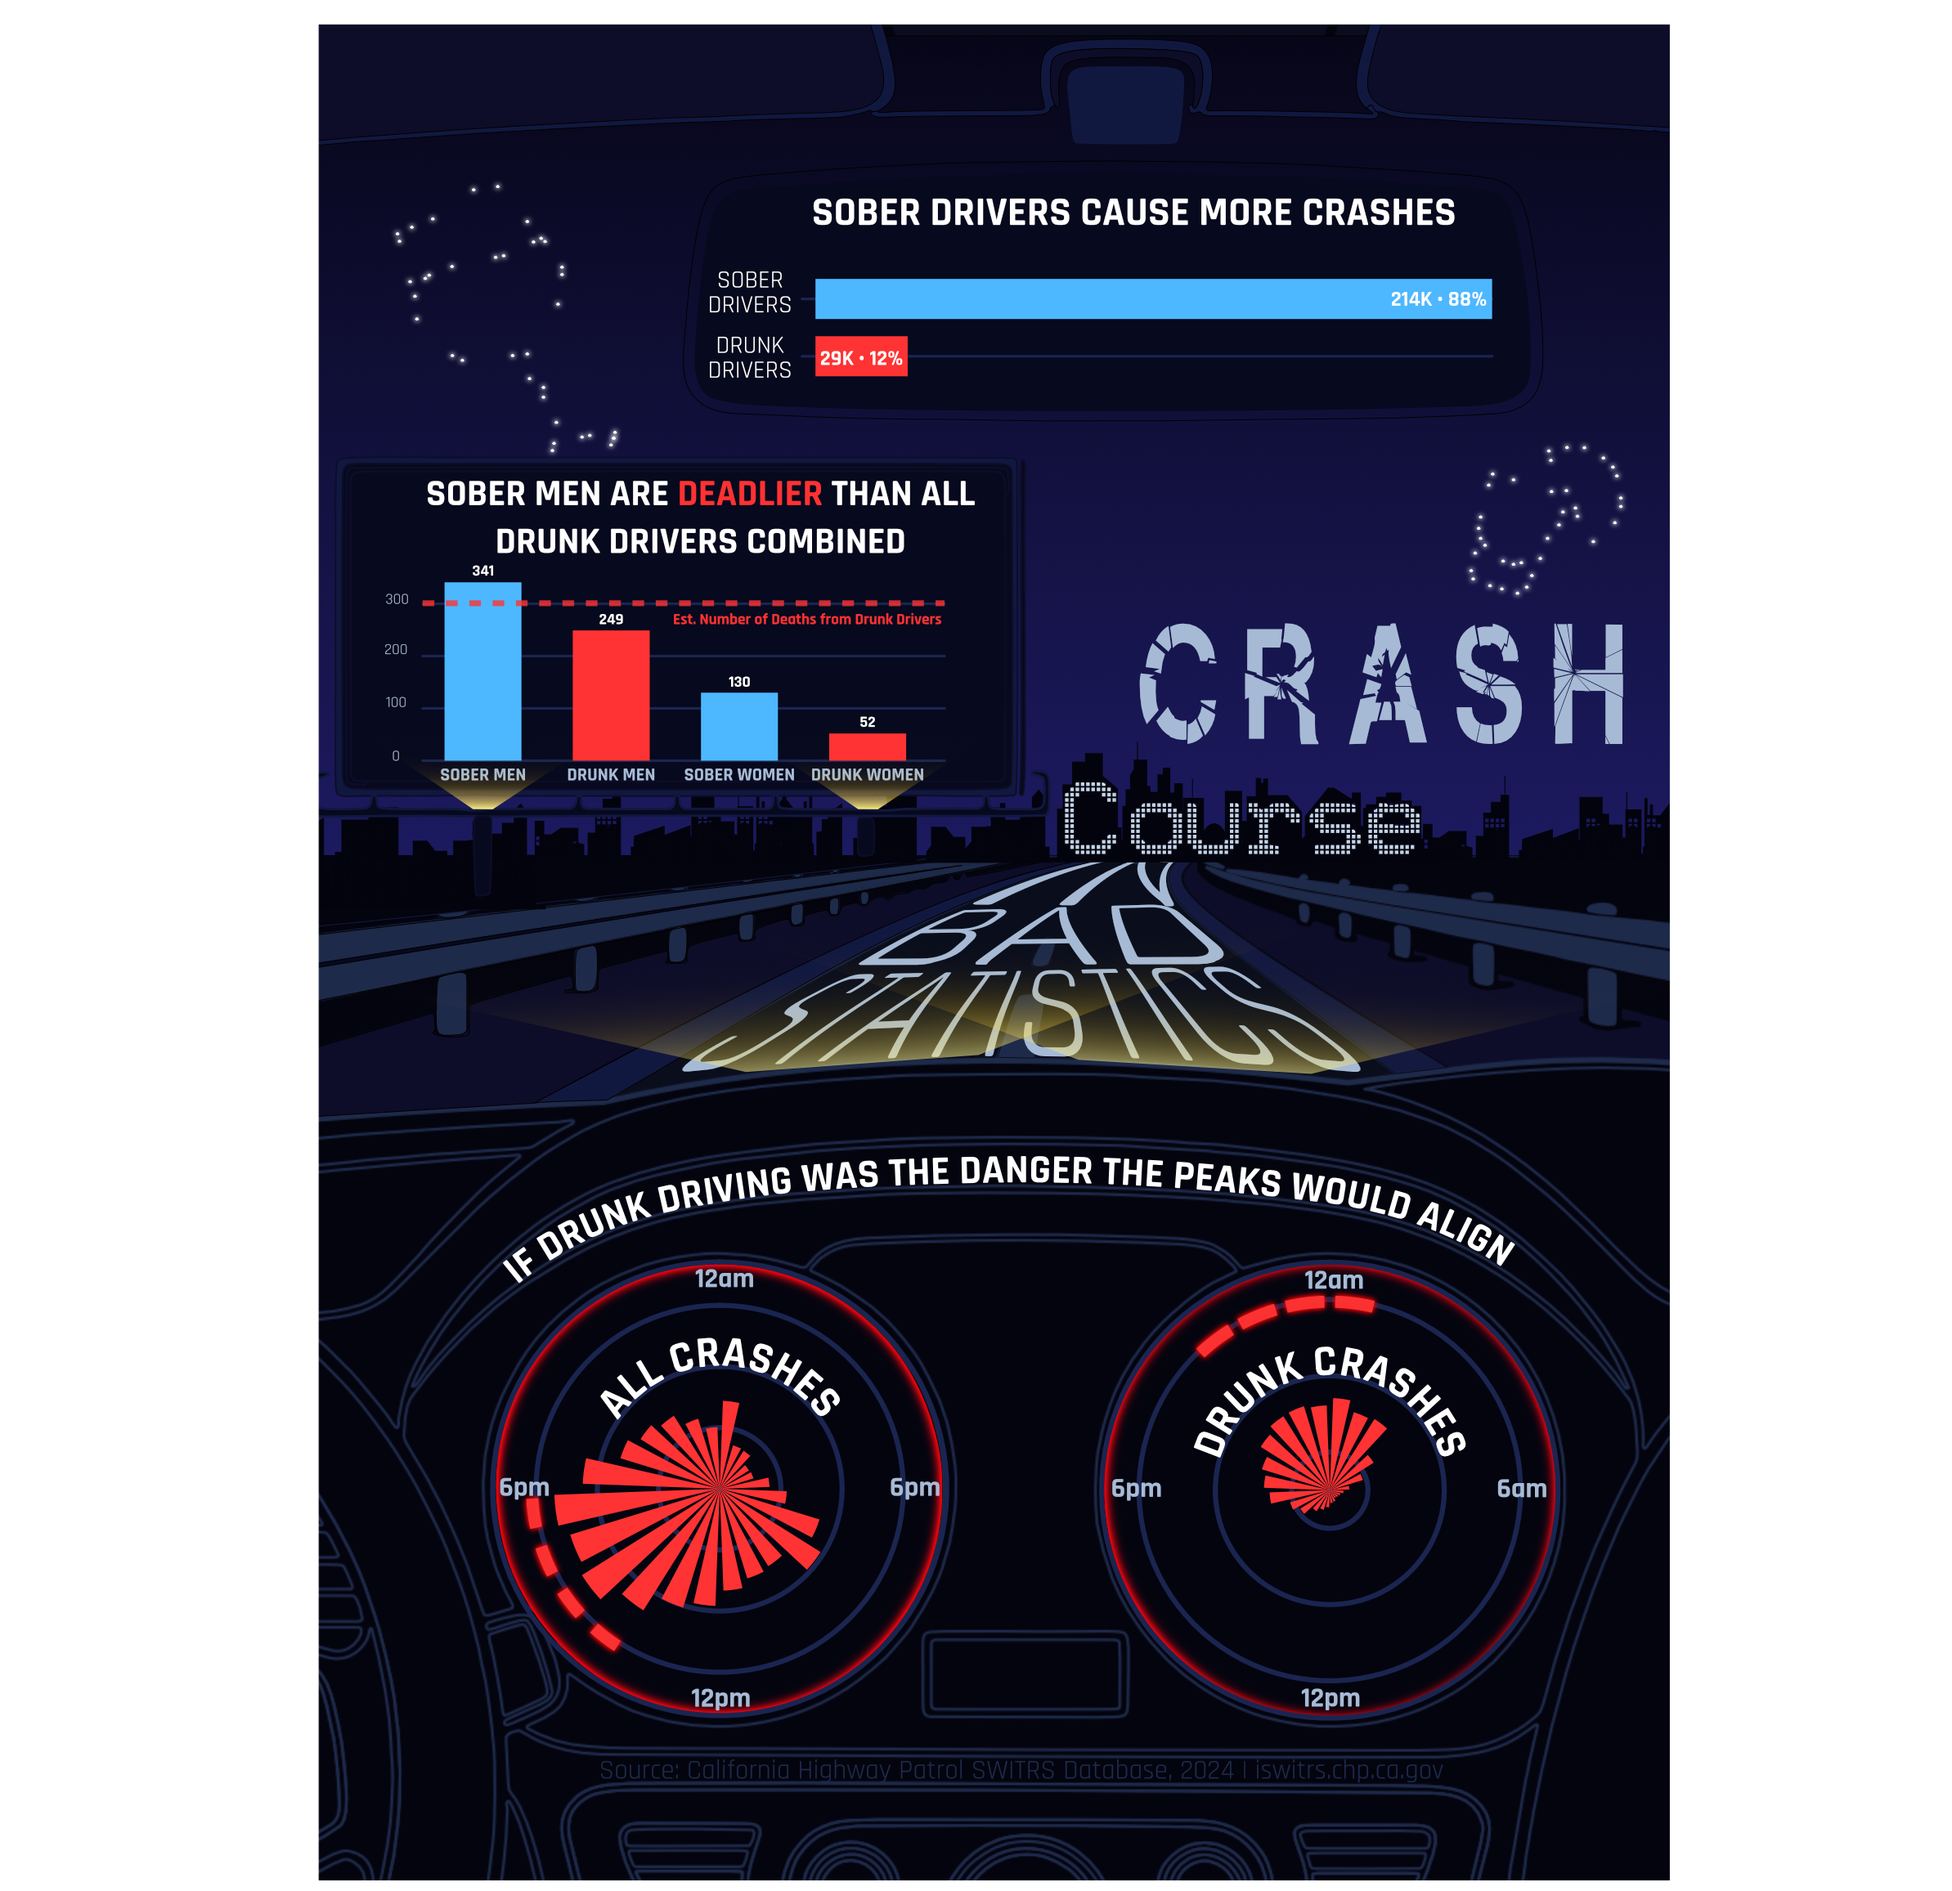
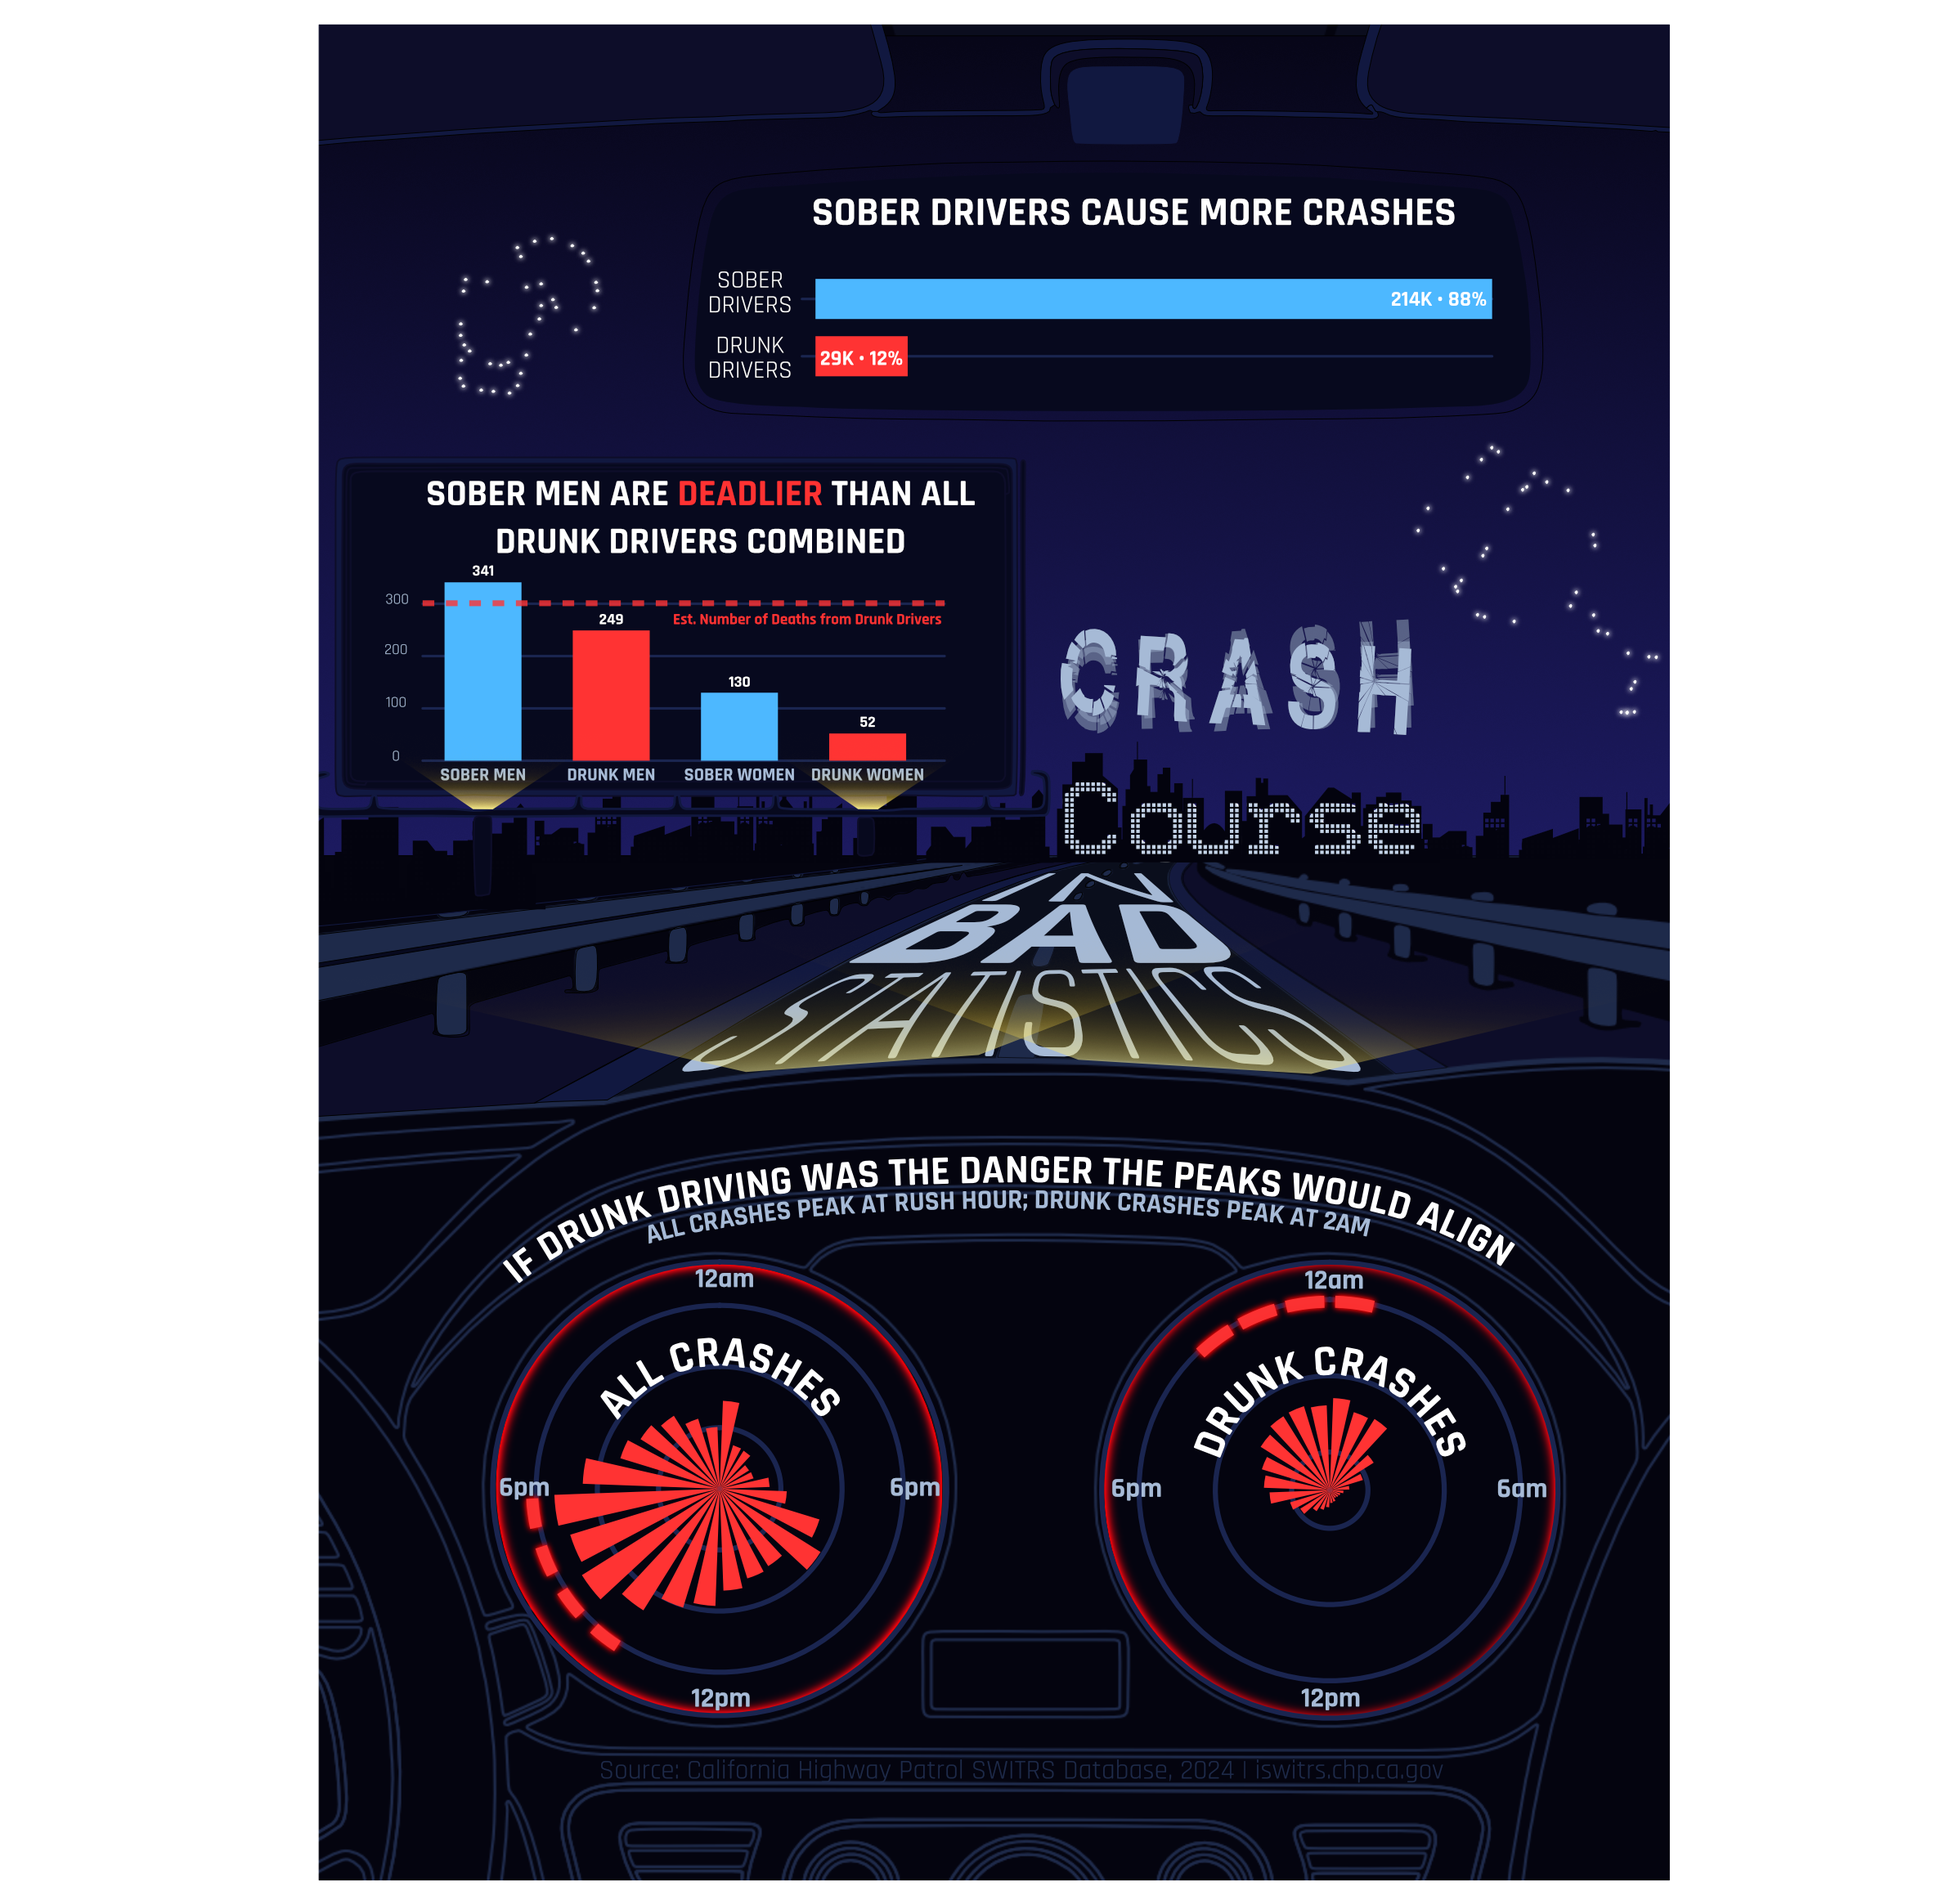
Update thumbnail and edd env setup for 220 post

diff --git a/docs/posts/eds240-final/index.html b/docs/posts/eds240-final/index.html
@@ -263,8 +263,8 @@ pre > code.sourceCode > span > a:first-child::before { text-decoration: underlin
 <section id="introduction" class="level2">
 <h2 class="anchored" data-anchor-id="introduction">Introduction</h2>
 <p>Here’s a statistic: sober drivers cause 88% of all crashes in California. Alarming, right? You might want to reconsider that designated driver situation.</p>
-<p>That statistic is real. It comes from the California Highway Patrol’s SWITRS database: tens of thousands of reported crashes from 2024, cleaned, filtered to at-fault drivers, and summarized honestly. It is also completely misleading, and I built an entire infographic to prove it.</p>
-<p><em>Crash Course in Bad Statistics</em> is a deadpan parody of the kind of scary public health PSA you’ve probably scrolled past, with dark backgrounds,, bold claims, authoritative-looking charts. Every number in it is technically accurate. Every conclusion it nudges you toward is wrong. The goal isn’t to convince you that drunk driving is fine (it isn’t). The goal is to show how easy it is to weaponize real data through selective framing, and to make you a little more suspicious the next time a statistic sounds exactly as alarming as someone needs it to.</p>
+<p>That statistic is real. It comes from the California Highway Patrol’s SWITRS database: tens of thousands of reported crashes from 2024, cleaned, filtered to at-fault drivers, summarized honestly and completely misleading.</p>
+<p><em>Crash Course in Bad Statistics</em> is a deadpan parody of the kind of scary public health PSA you’ve probably scrolled past, with dark backgrounds, bold shocking claims, authoritative(-looking) charts. Every number in it is <em>technically</em> accurate. Every conclusion it nudges you toward is wrong. The goal isn’t to convince you that drunk driving is fine (it isn’t). The goal is to show how easy it is to weaponize real data through selective framing, and to make you a little more suspicious the next time a statistic sounds exactly as alarming as someone needs it to.</p>
 <hr>
 </section>
 <section id="the-infographic" class="level2">
@@ -281,13 +281,13 @@ pre > code.sourceCode > span > a:first-child::before { text-decoration: underlin
 <h2 class="anchored" data-anchor-id="design-process">Design Process</h2>
 <section id="graphic-form" class="level3">
 <h3 class="anchored" data-anchor-id="graphic-form">1. Graphic Form</h3>
-<p>Each of the three panels uses a conventional chart type: horizontal bar, polar clock, column bar, chosen specifically because they look trustworthy. The horizontal bar for Myth 1 is the starkest way to display the 7:1 raw count ratio; there’s no visual complexity to distract from the number. The polar clocks for Myth 2 lean into the car dashboard aesthetic of the overall infographic design while also being a genuinely useful format for 24-hour temporal data. The key manipulation there is subtle: the right clock’s y-axis is expanded to 2.2x, which compresses the alcohol bars to fill only about 45% of the clock face, making the late-night peak look minor rather than concentrated. The column bar for Myth 3 is intentionally conventional; the absurdity of the “sober men are deadlier” conclusion lands harder when the chart looks completely normal. All three chart types read as authoritative. That’s the point.</p>
+<p>Each of the three panels uses a conventional chart type: horizontal bar, polar clock (radial bar graph), column bar, chosen specifically because they look trustworthy. The horizontal bar for Myth 1 is the starkest way to display the 7:1 raw count ratio; there’s no visual complexity to distract from the number. The polar clocks for Myth 2 lean into the car dashboard aesthetic of the overall infographic design while also being a genuinely useful format for 24-hour temporal data. The key manipulation there is subtle: the right clock’s y-axis is expanded to 2.2x, which compresses the alcohol bars to fill only about 45% of the clock face, making the late-night peak look minor rather than concentrated. The column bar for Myth 3 is intentionally conventional; the absurdity of the “sober men are deadlier” conclusion lands harder when the chart looks completely normal. All three chart types read as authoritative. That’s the point.</p>
 <hr>
 </section>
 <section id="text-titles-labels-annotations" class="level3">
 <h3 class="anchored" data-anchor-id="text-titles-labels-annotations">2. Text (Titles, Labels, Annotations)</h3>
-<p>All titles are all-caps, which registers as alarm or warning, the visual register of a PSA. “SOBER DRIVERS CAUSE MORE CRASHES” is designed to read like a headline before the viewer processes that it’s a chart title. The Myth 3 title uses <code>ggtext::element_markdown()</code> to render “DEADLIER” in red inline, making an absurd claim feel like breaking news. Subtitles carry the technically-true framing without fabricating anything: “Raw crash counts · CA SWITRS 2024” is accurate and sounds responsible.</p>
-<p>The Myth 2 patchwork annotation, “IF DRUNK DRIVING CAUSED THE DANGER, THE PEAKS WOULD ALIGN,” does the most rhetorical work of any text in the infographic. It states the misleading logical argument explicitly so the viewer doesn’t have to make the inferential leap themselves, which makes the deception more persuasive, not less. The Myth 3 dashed reference line is annotated with the cumulative drunk-driver death count so the viewer can immediately make the sober-men-vs-all-drunk comparison without doing math.</p>
+<p>All titles are all-caps, which registers as alarm or warning, the visual register of a PSA. “SOBER DRIVERS CAUSE MORE CRASHES” is designed to read like a headline before the viewer processes that it’s a chart title. The Myth 3 title uses <code>ggtext::element_markdown()</code> to render “DEADLIER” in red inline, making an absurd claim feel like breaking news. Subtitles carry the technically-true framing without fabricating anything.</p>
+<p>The Myth 2 patchwork annotation, “IF DRUNK DRIVING CAUSED THE DANGER, THE PEAKS WOULD ALIGN,” does the most rhetorical work of any text in the infographic. It states the misleading logical argument explicitly so the viewer doesn’t have to make the inferential leap themselves. Presenting the conclusion we want the viewer to draw up front also keeps them from doing too much of their own interpreting and thinking about how the data is represented and what it could mean. Similarly, the Myth 3 dashed reference line is annotated with the cumulative drunk-driver death count so the viewer can immediately make the sober-men-vs-all-drunk comparison without doing math.</p>
 <hr>
 </section>
 <section id="themes" class="level3">
@@ -302,7 +302,7 @@ pre > code.sourceCode > span > a:first-child::before { text-decoration: underlin
 </section>
 <section id="typography" class="level3">
 <h3 class="anchored" data-anchor-id="typography">5. Typography</h3>
-<p>Rajdhani (loaded via <code>sysfonts</code> and <code>showtext</code>) is geometric, condensed, and slightly techno-adjacent; it reads like an instrument panel readout, which fits the dashboard framing. The weight hierarchy is straightforward: bold 35pt titles, 20pt subtitles, 14–25pt axis labels depending on the chart. The larger axis sizes on the polar clocks (25pt) are necessary because the labels orbit the chart face rather than sitting on a flat axis, so they need more visual weight to be legible. <code>showtext_auto()</code> ensures consistent rendering across both PDF and HTML outputs, which matters since the charts were exported to PDF for Affinity assembly before being embedded here.</p>
+<p>Rajdhani (loaded via <code>sysfonts</code> and <code>showtext</code>) is geometric, condensed, and slightly techno-adjacent; it reads like an instrument panel readout, which fits the dashboard framing. The weight hierarchy is straightforward: bold 35pt titles, 20pt subtitles, 14–25pt axis labels depending on the chart. The larger axis sizes on the polar clocks (25pt) are necessary because the labels orbit the chart face rather than sitting on a flat axis, so they need more visual weight to be legible. <code>showtext_auto()</code> ensures consistent rendering across both PDF and HTML outputs, which matters since the charts were exported to PDF for Affinity assembly before being embedded here. In Affinity, Shatterboxx font was used for “CRASH” and Skyline for “COURSE”. I used blacked out letters from Skyline to continue the pattern across the horizon.</p>
 <hr>
 </section>
 <section id="general-design" class="level3">

diff --git a/docs/blog.html b/docs/blog.html
@@ -241,7 +241,7 @@ window.Quarto = {
 
 <div class="quarto-listing quarto-listing-container-default" id="listing-listing">
 <div class="list quarto-listing-default">
-<div class="quarto-post image-right" data-index="0" data-categories="UiUyQ0RhdGElMjBWaXN1YWxpemF0aW9uJTJDTUVEUyUyQ0VEUyUyMDI0MA==" data-listing-date-sort="1773039600000" data-listing-file-modified-sort="1773127399023" data-listing-date-modified-sort="NaN" data-listing-reading-time-sort="21" data-listing-word-count-sort="4079">
+<div class="quarto-post image-right" data-index="0" data-categories="UiUyQ0RhdGElMjBWaXN1YWxpemF0aW9uJTJDTUVEUyUyQ0VEUyUyMDI0MA==" data-listing-date-sort="1773039600000" data-listing-file-modified-sort="1773155734371" data-listing-date-modified-sort="NaN" data-listing-reading-time-sort="21" data-listing-word-count-sort="4113">
 <div class="thumbnail"><a href="./posts/eds240-final/index.html" class="no-external">
 
 <img loading="lazy" src="./posts/eds240-final/draft2.png" class="thumbnail-image" alt="A dark, PSA-style infographic set inside a car interior illustration. The rearview mirror shows a bar chart of crash counts by sobriety, the dashboard gauges show polar clock charts of crash timing, and a roadside billboard shows estimated deaths by gender and sobriety.">
@@ -277,7 +277,7 @@ Emily Miller
 </a>
 </div>
 </div>
-<div class="quarto-post image-right" data-index="1" data-categories="UiUyQ1N0YXRpc3RpY3MlMkNNRURT" data-listing-date-sort="1772784000000" data-listing-file-modified-sort="1773020292586" data-listing-date-modified-sort="NaN" data-listing-reading-time-sort="15" data-listing-word-count-sort="2939">
+<div class="quarto-post image-right" data-index="1" data-categories="UiUyQ1N0YXRpc3RpY3MlMkNNRURT" data-listing-date-sort="1772784000000" data-listing-file-modified-sort="1773127752867" data-listing-date-modified-sort="NaN" data-listing-reading-time-sort="15" data-listing-word-count-sort="2939">
 <div class="thumbnail"><a href="./posts/eds241-final/index.html" class="no-external">
 
 <img loading="lazy" src="./posts/eds241-final/reservoir-1030292_1280.jpg" class="thumbnail-image" alt="Enobieta reservoir during drawdown">
